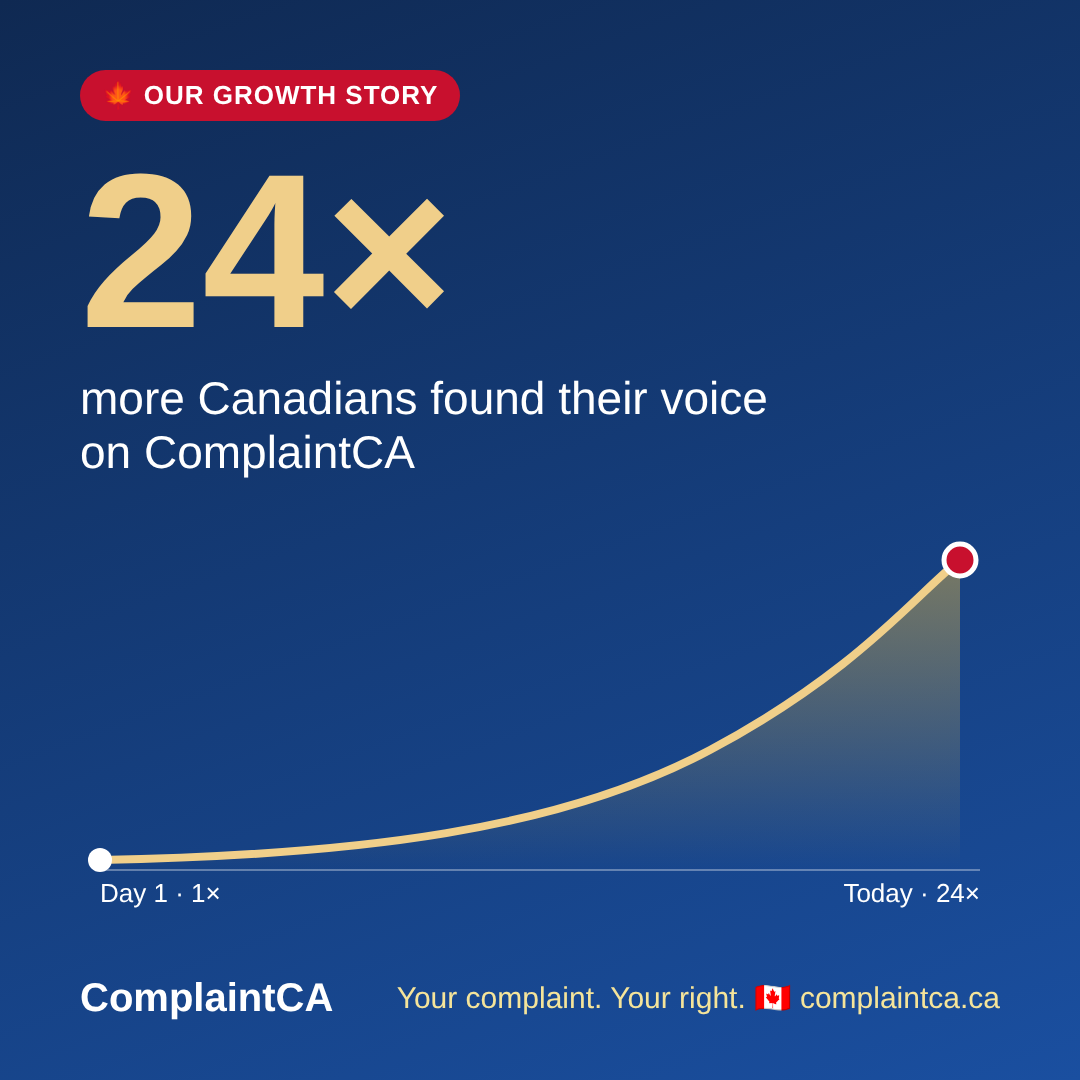
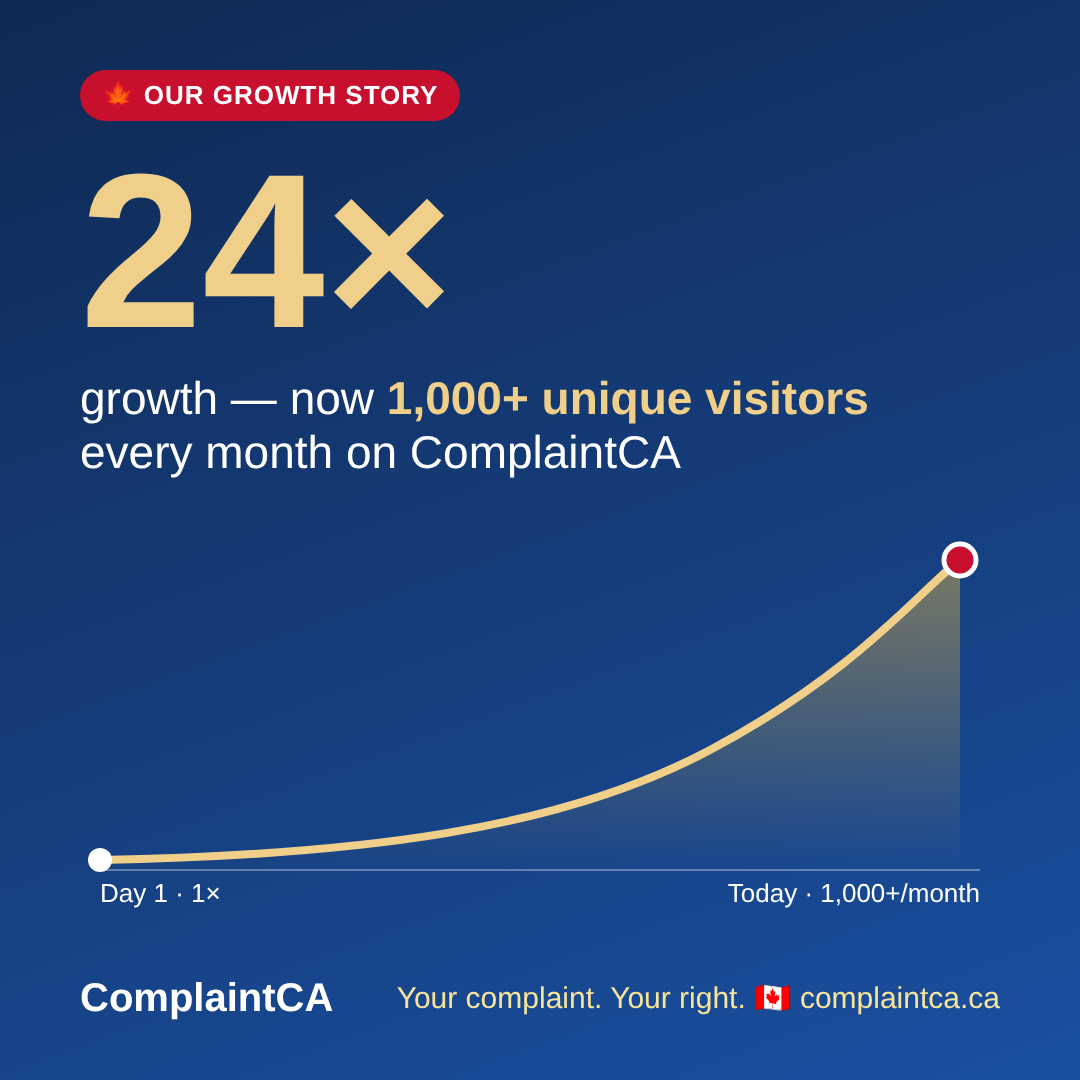
FB 24x post: show 1,000+ monthly unique visitors
Claude-Session: https://claude.ai/code/session_01NuhmwVUq8hDpYMba7ByM6G

Changed region(s): [[0.0611, 0.3361, 0.825, 0.4583], [0.7639, 0.7944, 0.9167, 0.8556], [0.6722, 0.825, 0.7333, 0.8556]]

diff --git a/social/fb-24x/post.html b/social/fb-24x/post.html
@@ -8,7 +8,7 @@ svg{position:absolute;left:60px;bottom:170px}
 .foot{position:absolute;bottom:60px;left:80px;right:80px;display:flex;justify-content:space-between;align-items:center;font-size:30px}
 .foot b{font-size:40px}.foot span{color:#f5e49a}
 </style></head><body>
-<div class="top"><div class="tag">🍁 OUR GROWTH STORY</div><h1>24×</h1><h2>more Canadians found their voice<br>on ComplaintCA</h2></div>
+<div class="top"><div class="tag">🍁 OUR GROWTH STORY</div><h1>24×</h1><h2>growth — now <b style="color:#f0cf8a">1,000+ unique visitors</b><br>every month on ComplaintCA</h2></div>
 <svg width="960" height="380" viewBox="0 0 960 380">
 <defs><linearGradient id="g" x1="0" y1="0" x2="0" y2="1"><stop offset="0" stop-color="#c9a84c" stop-opacity=".55"/><stop offset="1" stop-color="#c9a84c" stop-opacity="0"/></linearGradient></defs>
 <line x1="40" y1="340" x2="920" y2="340" stroke="#ffffff55" stroke-width="2"/>
@@ -16,7 +16,7 @@ svg{position:absolute;left:60px;bottom:170px}
 <path d="M40 330 C300 325 500 300 650 220 S860 60 900 30" fill="none" stroke="#f0cf8a" stroke-width="8" stroke-linecap="round"/>
 <circle cx="40" cy="330" r="12" fill="#fff"/><circle cx="900" cy="30" r="16" fill="#c8102e" stroke="#fff" stroke-width="5"/>
 <text x="40" y="372" fill="#fff" font-size="26">Day 1 · 1×</text>
-<text x="920" y="372" fill="#fff" font-size="26" text-anchor="end">Today · 24×</text>
+<text x="920" y="372" fill="#fff" font-size="26" text-anchor="end">Today · 1,000+/month</text>
 </svg>
 <div class="foot"><b>ComplaintCA</b><span>Your complaint. Your right. 🇨🇦 complaintca.ca</span></div>
 </body></html>
